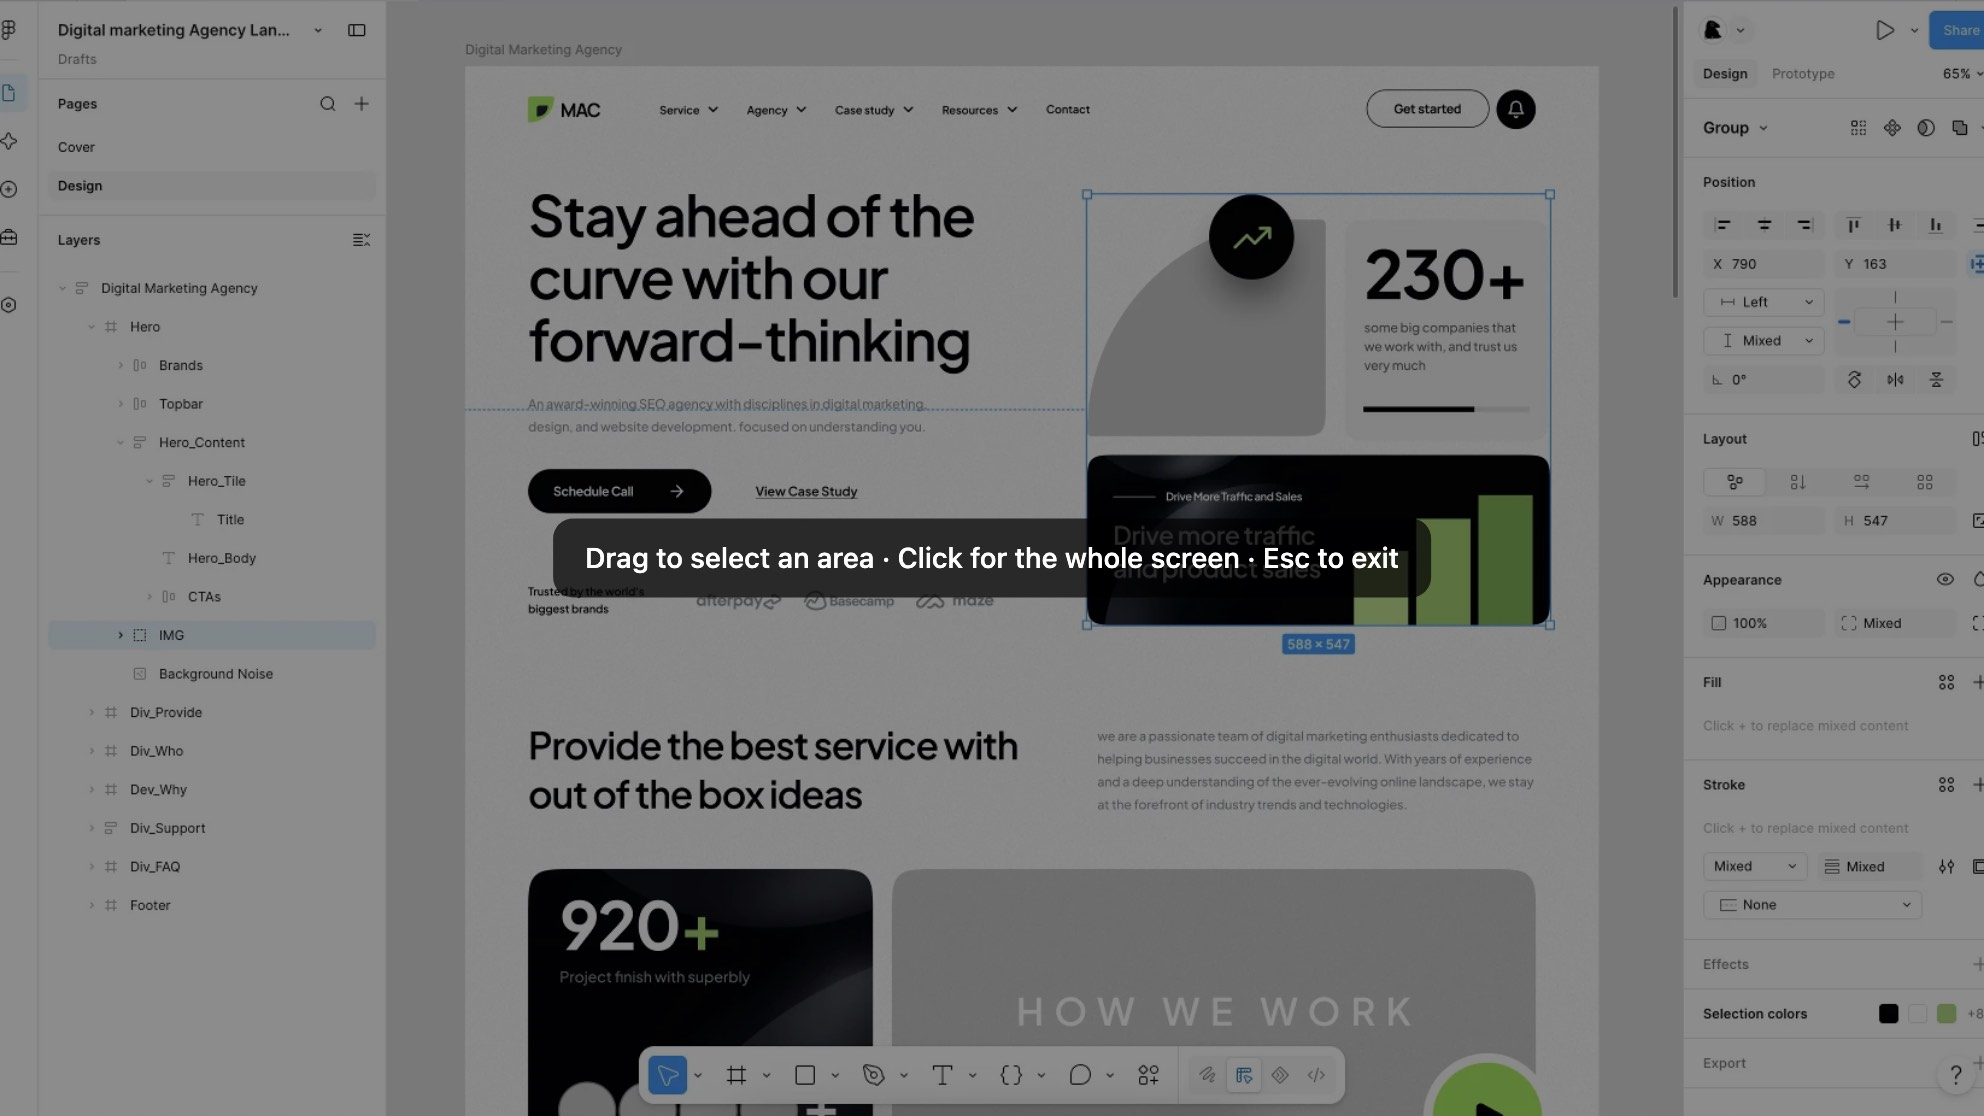
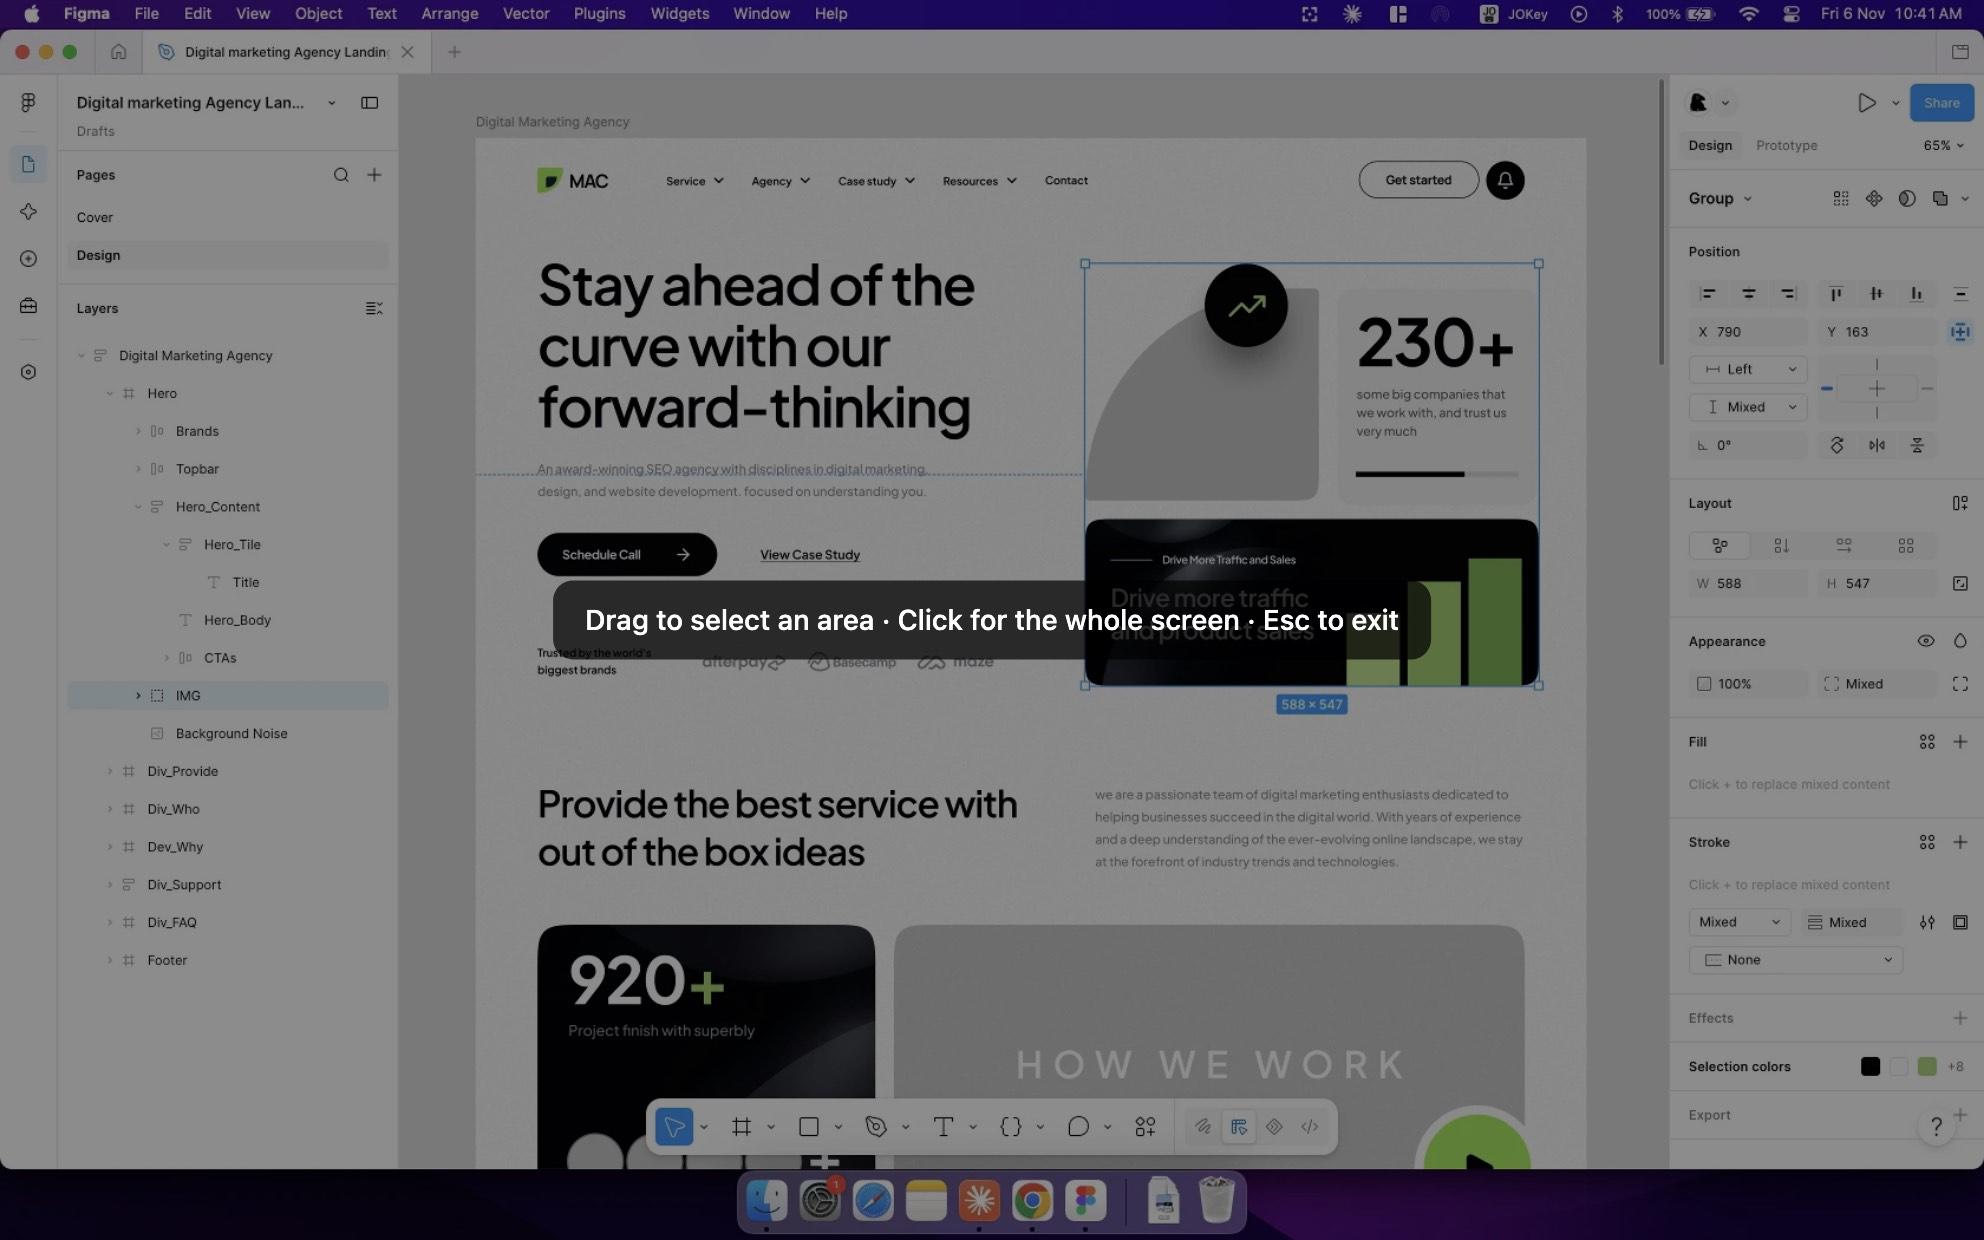
Website: show the full screen in the demo on a 16:10 monitor
The demo now shows the whole screenshot, including the menu bar, tab bar and
Dock. Stretch the monitor model to a 16:10 screen in the render, leaving the
stand as it is, and re-render the monitor and demo frames. Update the layout,
drag animation and image versions, and note the change in the README credits.

diff --git a/docs/index.html b/docs/index.html
@@ -7,7 +7,7 @@
 <meta name="description" content="A free screenshot tool for macOS and Windows. Press one hotkey, mark it up, paste it back into the app you were using.">
 <meta property="og:title" content="ShoreShot – capture, mark up, paste">
 <meta property="og:description" content="A free screenshot tool for macOS and Windows.">
-<meta property="og:image" content="https://shoreshot.ontheshore.biz/shot-2.jpg?v=figma">
+<meta property="og:image" content="https://shoreshot.ontheshore.biz/shot-2.jpg?v=full">
 <link rel="icon" href="icon.png">
 <link rel="preconnect" href="https://fonts.googleapis.com">
 <link rel="preconnect" href="https://fonts.gstatic.com" crossorigin>
@@ -74,17 +74,17 @@ a { color: inherit; text-decoration: none; }
 /* Demo: three real frames of the overlay. Frame 1 is revealed like a selection being dragged, frame 2 fades in the annotations. */
 /* The screen spans 96.94% of the image: 67.05vw makes it 65vw. The height cap keeps all of it visible below the nav. */
 /* The panel's bottom edge cuts the monitor just below the frame, through the stand */
-.stage { width: min(67.05vw, (100vh - 120px) * 1.834, 100%); aspect-ratio: 2400 / 1456; min-height: 0; margin: 64px auto 0; clip-path: inset(-100px -100px 0); }
+.stage { width: min(67.05vw, (100vh - 120px) * 1.65, 100%); aspect-ratio: 2400 / 1603; min-height: 0; margin: 64px auto 0; clip-path: inset(-100px -100px 0); }
 .monitor { position: relative; }
 .monitor > img { display: block; width: 100%; height: auto; filter: drop-shadow(0 30px 40px rgba(30, 50, 90, .3)); }
 /* Screen rectangle measured from the 3D model */
-.demo { position: absolute; margin: 0; left: 1.528%; right: 1.528%; top: 2.113%; bottom: 22.45%; overflow: hidden; background: #8a8a8a; }
+.demo { position: absolute; margin: 0; left: 1.528%; right: 1.528%; top: 2.024%; bottom: 20.759%; overflow: hidden; background: #8a8a8a; }
 .demo img { position: absolute; inset: 0; width: 100%; height: 100%; display: block; }
 .demo .f1 { animation: drag 10s infinite; }
 .demo .f2 { animation: mark 10s infinite; }
 @keyframes drag {
-  0%, 12% { clip-path: inset(5.91% 76.51% 94.09% 23.49%); opacity: 1; animation-timing-function: var(--ease); }
-  34%, 35.9% { clip-path: inset(5.91% 19.46% 21.15% 23.49%); }
+  0%, 12% { clip-path: inset(11.13% 76.01% 88.87% 23.99%); opacity: 1; animation-timing-function: var(--ease); }
+  34%, 35.9% { clip-path: inset(11.13% 20.06% 23.87% 23.99%); }
   36%, 90% { clip-path: inset(0); opacity: 1; }
   96%, 100% { clip-path: inset(0); opacity: 0; }
 }
@@ -92,9 +92,9 @@ a { color: inherit; text-decoration: none; }
 .track { position: absolute; inset: 0; pointer-events: none; animation: track 10s infinite; }
 .track svg { position: absolute; left: 0; top: 0; width: 22px; height: 22px; margin: -11px 0 0 -11px; color: #fff; filter: drop-shadow(0 1px 1px rgba(0, 0, 0, .6)); }
 @keyframes track {
-  0%, 12% { transform: translate(23.49%, 5.91%); opacity: 1; animation-timing-function: var(--ease); }
-  34% { transform: translate(80.54%, 78.85%); opacity: 1; }
-  38%, 100% { transform: translate(80.54%, 78.85%); opacity: 0; }
+  0%, 12% { transform: translate(23.99%, 11.13%); opacity: 1; animation-timing-function: var(--ease); }
+  34% { transform: translate(79.94%, 76.13%); opacity: 1; }
+  38%, 100% { transform: translate(79.94%, 76.13%); opacity: 0; }
 }
 
 /* Section headings: centered, with a small icon tile set into the sentence */
@@ -192,7 +192,7 @@ footer a:hover { color: var(--fg); }
 
 @media (max-width: 900px) {
   .links { display: none; }
-  .stage { width: min(82.52vw, (100vh - 120px) * 1.834, 100%); }
+  .stage { width: min(82.52vw, (100vh - 120px) * 1.65, 100%); }
   .cards { grid-template-columns: minmax(0, 1fr); }
   .card { min-height: 0; }
   .minis { grid-template-columns: minmax(0, 1fr); }
@@ -255,11 +255,11 @@ footer a:hover { color: var(--fg); }
 
   <div class="stage rise" style="--i:4">
     <div class="monitor">
-    <img src="monitor.webp" width="2400" height="1735" alt="" decoding="async">
+    <img src="monitor.webp?v=1610" width="2400" height="1883" alt="" decoding="async">
     <figure class="demo" role="img" aria-label="ShoreShot over a design file in Figma: an area is selected and marked with a red box, a green circle and red text, with the tools bar and the actions bar on its right">
-      <img src="shot-0.jpg?v=figma" width="1984" height="1116" alt="">
-      <img class="f1" src="shot-1.jpg?v=figma" width="1984" height="1116" alt="">
-      <img class="f2" src="shot-2.jpg?v=figma" width="1984" height="1116" alt="">
+      <img src="shot-0.jpg?v=full" width="1984" height="1240" alt="">
+      <img class="f1" src="shot-1.jpg?v=full" width="1984" height="1240" alt="">
+      <img class="f2" src="shot-2.jpg?v=full" width="1984" height="1240" alt="">
       <div class="track"><svg viewBox="0 0 24 24" fill="none" stroke="currentColor" stroke-width="1.5"><path d="M12 2v20M2 12h20"/></svg></div>
     </figure>
     </div>

diff --git a/README.md b/README.md
@@ -132,4 +132,4 @@ docs/                    website (GitHub Pages, shoreshot.ontheshore.biz); docs/
 
 ## Credits
 
-The monitor on the website is rendered from [PC Monitor 27 inch](https://sketchfab.com/3d-models/pc-monitor-27-inch-06fb18eec19245d4811c4c3c8c7ea567) by [Annelida](https://sketchfab.com/Annelida), licensed under [CC BY 4.0](https://creativecommons.org/licenses/by/4.0/). Changes: dark frame and stand, rendered to a flat image.
+The monitor on the website is rendered from [PC Monitor 27 inch](https://sketchfab.com/3d-models/pc-monitor-27-inch-06fb18eec19245d4811c4c3c8c7ea567) by [Annelida](https://sketchfab.com/Annelida), licensed under [CC BY 4.0](https://creativecommons.org/licenses/by/4.0/). Changes: dark frame and stand, screen stretched to 16:10, rendered to a flat image.
